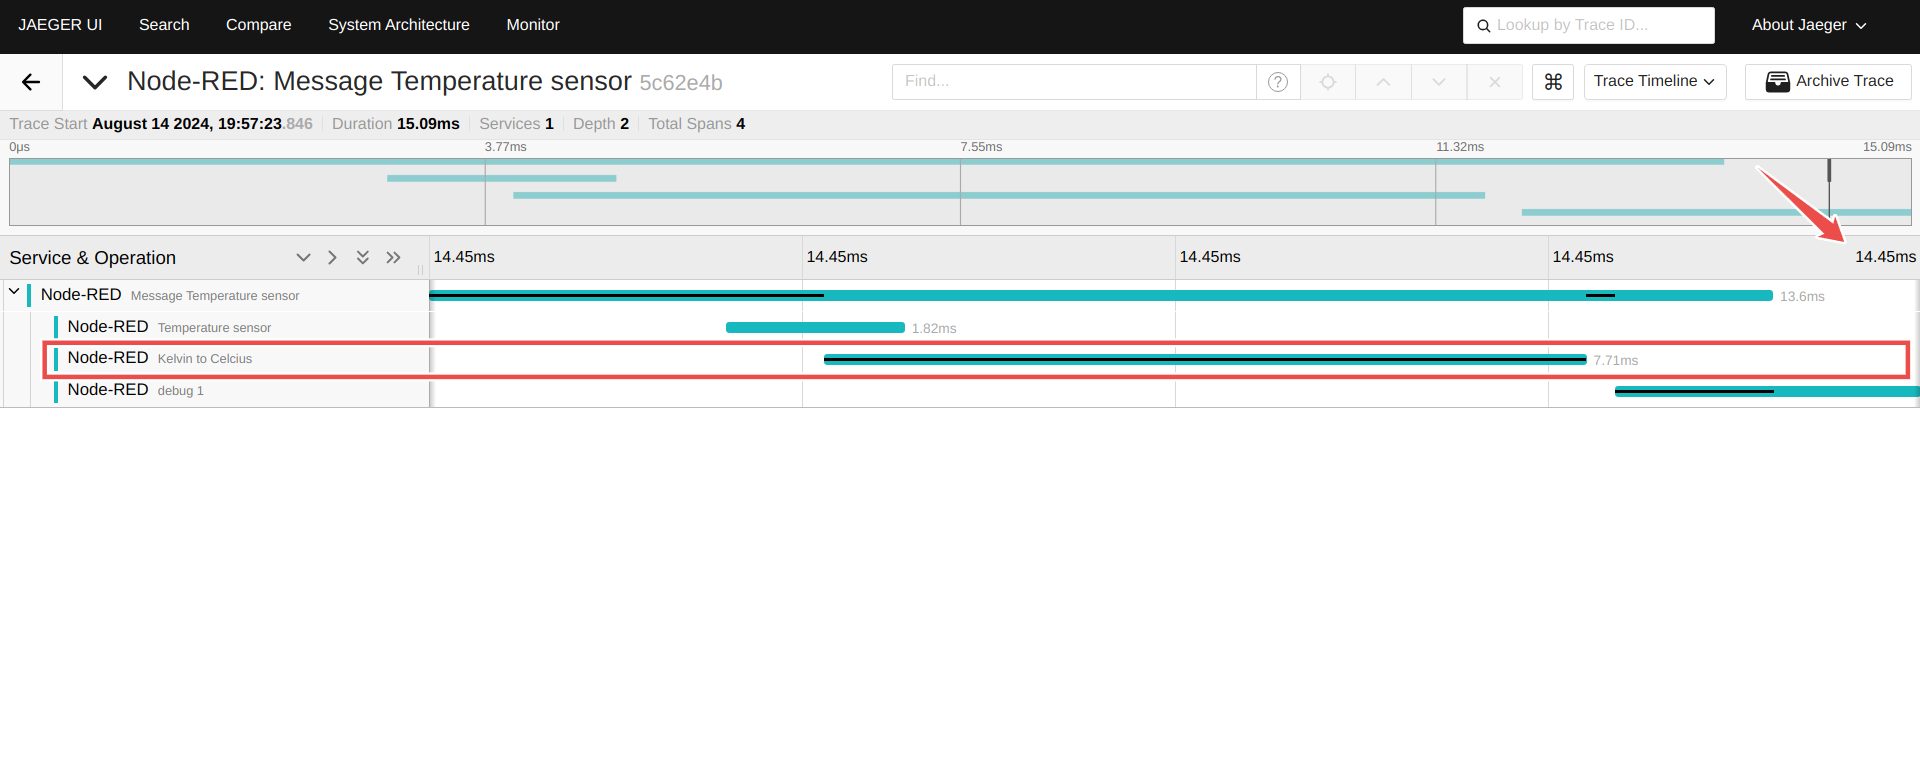
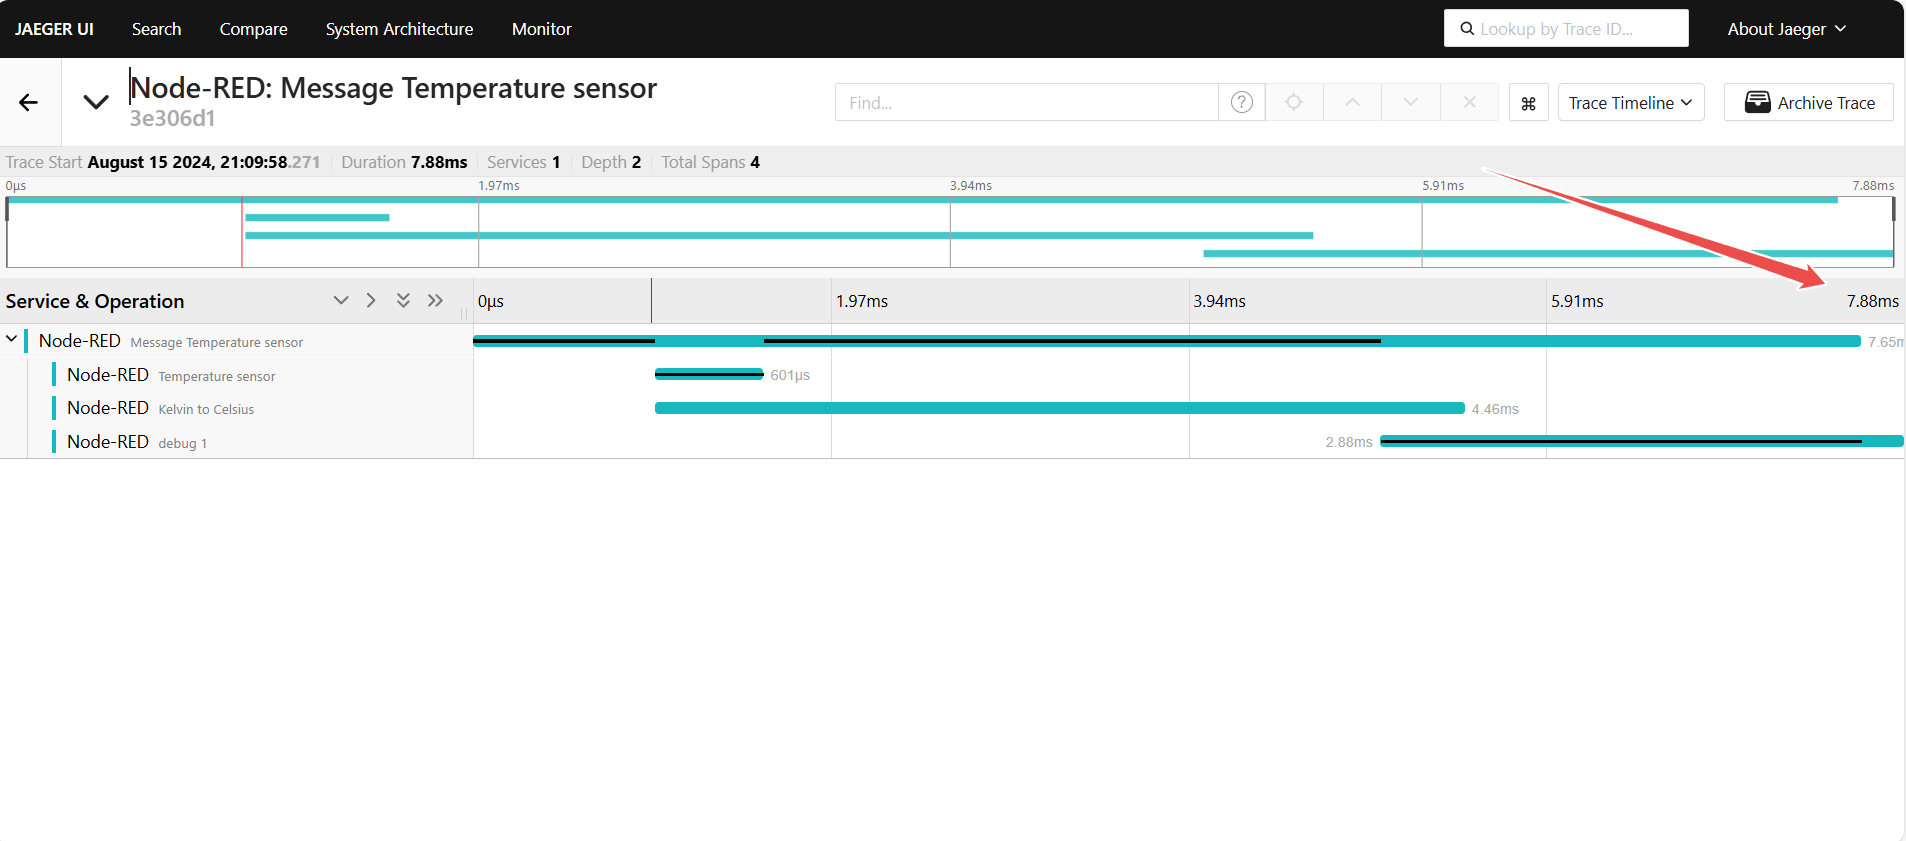
update blog

diff --git a/src/blog/2024/08/opentelemetry-with-node-red.md b/src/blog/2024/08/opentelemetry-with-node-red.md
@@ -33,10 +33,14 @@ In a manufacturing plant, Node-RED manages different machines and sensors. Suppo
 For demonstration purposes, we will use a flow that simulates sensor reading and data processing. We will monitor this flow using OpenTelemetry to track data across the system, identify bottlenecks, and optimize performance.
 
 {% renderFlow %}
-[{"id":"9e778f13beba757e","type":"group","z":"45e56b4089cada94","name":"flow1","style":{"label":true},"nodes":["636ac7b4d798a5c4","ac87db82c2ab66f5","ec0e6f08c443a048"],"x":134,"y":139,"w":692,"h":82},{"id":"636ac7b4d798a5c4","type":"inject","z":"45e56b4089cada94","g":"9e778f13beba757e","name":"Temperature sensor","props":[{"p":"payload"}],"repeat":"","crontab":"","once":true,"onceDelay":0.1,"topic":"","payload":"$random()* 200\t","payloadType":"jsonata","x":280,"y":180,"wires":[["ec0e6f08c443a048"]]},{"id":"ac87db82c2ab66f5","type":"debug","z":"45e56b4089cada94","g":"9e778f13beba757e","name":"debug 1","active":true,"tosidebar":true,"console":false,"tostatus":false,"complete":"payload","targetType":"msg","statusVal":"","statusType":"auto","x":720,"y":180,"wires":[]},{"id":"ec0e6f08c443a048","type":"function","z":"45e56b4089cada94","g":"9e778f13beba757e","name":"Kelvin to Celcius","func":"// Extract the Kelvin value from the incoming message payload\nlet kelvin = msg.payload;\n\n// Function to convert Kelvin to Celsius\nfunction kelvinToCelsius(kelvin) {\n    return kelvin - 273.15;\n}\n\n// Function to add an intentional delay (e.g., 1 second)\nfunction delay(ms) {\n    return new Promise(resolve => setTimeout(resolve, ms));\n}\n\n// Convert Kelvin to Celsius\nlet celsius = kelvinToCelsius(kelvin);\n\n// Add an intentional delay (1 second)\nawait delay(1000);\n\n// Set the result in the message payload\nmsg.payload = celsius;\n\n// Return the modified message object\nreturn msg;","outputs":1,"timeout":0,"noerr":0,"initialize":"","finalize":"","libs":[],"x":520,"y":180,"wires":[["ac87db82c2ab66f5"]]}]
+[{"id":"78e4a1255f9d0ad1","type":"group","z":"45e56b4089cada94","name":"","style":{"label":true},"nodes":["636ac7b4d798a5c4","ac87db82c2ab66f5","c8a1749629359031","c0d30281031f07db"],"x":34,"y":139,"w":852,"h":82},{"id":"636ac7b4d798a5c4","type":"inject","z":"45e56b4089cada94","g":"78e4a1255f9d0ad1","name":"Temperature sensor","props":[{"p":"payload"}],"repeat":"","crontab":"","once":true,"onceDelay":0.1,"topic":"","payload":"300","payloadType":"jsonata","x":180,"y":180,"wires":[["c8a1749629359031"]]},{"id":"ac87db82c2ab66f5","type":"debug","z":"45e56b4089cada94","g":"78e4a1255f9d0ad1","name":"debug 1","active":true,"tosidebar":true,"console":false,"tostatus":false,"complete":"payload","targetType":"msg","statusVal":"","statusType":"auto","x":780,"y":180,"wires":[]},{"id":"c8a1749629359031","type":"change","z":"45e56b4089cada94","g":"78e4a1255f9d0ad1","name":"Kelvin to Celsius","rules":[{"t":"set","p":"payload","pt":"msg","to":"payload - 273.15","tot":"jsonata"}],"action":"","property":"","from":"","to":"","reg":false,"x":400,"y":180,"wires":[["c0d30281031f07db"]]},{"id":"c0d30281031f07db","type":"delay","z":"45e56b4089cada94","g":"78e4a1255f9d0ad1","name":"","pauseType":"delay","timeout":"2","timeoutUnits":"seconds","rate":"1","nbRateUnits":"1","rateUnits":"second","randomFirst":"1","randomLast":"5","randomUnits":"seconds","drop":false,"allowrate":false,"outputs":1,"x":600,"y":180,"wires":[["ac87db82c2ab66f5"]]}]
 {% endrenderFlow %}
 
-Deploy the above flow, and you might notice that the data printed on the debug panel appears with a delay. For example purpose, in the function node that converts temperature data to Kelvin, we have intentionally added a delay. While you might have already spotted this delay quickly, in larger flows with hundreds of nodes, it can be challenging and time-consuming to pinpoint the exact problem. OpenTelemetry simplifies this task by providing detailed traces that help you identify where the delays or issues are occurring.
+"Deploy the flow above, and you might see a delay in the data shown on the debug panel. For this example, we added a Delay node before the Change node that converts temperature data to Kelvin. While this delay is visible here, finding such delays in larger flows with many nodes can be difficult and time-consuming. OpenTelemetry makes this easier by giving you detailed traces that show where delays or issues are happening
+
+## How Open Telemtry works in Node-RED
+
+The Open Telemtry module helps track messages in Node-RED by creating "spans" that record details about each message's journey. Every time a message moves from one node to another, a span is created to capture where it came from, where it’s going, and how long it took. These spans are linked together, showing the entire path of the message through the system. This makes it easier to spot slowdowns, fix problems, and improve how data moves through Node-RED. The module also makes sure this tracking information follows the message as it moves across different nodes and external services.
 
 ### Prequsite
 
@@ -53,13 +57,13 @@ _Screenshot showing the configuration of opentelmetry node_
 1. Drag an `OTEL` node onto the canvas.
 2. Double-click on the node and set the URL to your exporter endpoint (e.g., `http://localhost:4318/v1/traces` for a locally running Jaeger exporter). Provide a name for the service according to your preference, and set the Prefix, which will be added to the root Node-RED span name before the initial node name (you can keep it as "Message" if preferred).
 3. In the Ignore field, add the names of nodes you want to exclude from OpenTelemetry tracing.
-4. In the Propagate field, add the names of nodes to which you want OpenTelemetry to forward trace headers for tracking.
+4. In the Propagate field, add the names of nodes if you want them to forward trace headers to external systems or other nodes in the flow. This ensures that these nodes participate in the distributed trace, allowing the trace context to be maintained across different components.
 5. Set the Timeout to define how long (in seconds) the OTEL node should wait before ending and discarding a message that has not been modified.
 6. Now deploy the flow by clicking onto the top-right deploy button.
 
 Once the flow is deployed, OpenTelemetry will start collecting and sending trace data to your specified exporter.
 
-## Monitoring Performance Using the Exporter Web UI
+### Monitoring Performance Using the Exporter Web UI
 
 Now, let's monitor the performance and latency between each node to identify delays. For this section, I am assuming you have Jaeger running as your exporter.
 
@@ -68,33 +72,18 @@ Now, let's monitor the performance and latency between each node to identify del
 3. Select the service name that you configured in the OTEL node from the service field. Once selected, you will see all the traces for each interaction in the flow. You can filter the traces by specific nodes using the operation field.
 4. To monitor and find issues, select the desired trace and click on the "Find Trace" button. Click on the first trace to examine it.
 
-Once the trace opens, you will see the duration taken by each node to process and pass data. Notice the delay in the Kelvin to Celsius function, which is taking 2 seconds. By clicking on the green line corresponding to this function, you can view more detailed information about the trace.
+Once the trace opens, you will see the duration taken by each node to process and pass data. Notice the time taken by the delay node, which is taking 2 seconds so the problem found. By clicking on the green line corresponding to this delay node, you can view more detailed information about the trace.
 
 !["Image showing the total dueration taken by the flow"](./images/before.png "Image showing the tototal dueration taken by the flow")
 _Image showing the tototal dueration taken by the flow_
 
-Since the issue was identified in the function node, you can update the function to remove the delay which we have intentionally added. Replace the current function node with the following JavaScript code:
+Since the issue was identified in the with the delay node, let's remove that delay node.
 
-```js
-// Extract the Kelvin value from the incoming message payload
-let kelvin = msg.payload;
+{% renderFlow %}
+[{"id":"78e4a1255f9d0ad1","type":"group","z":"45e56b4089cada94","style":{"stroke":"#999999","stroke-opacity":"1","fill":"none","fill-opacity":"1","label":true,"label-position":"nw","color":"#a4a4a4"},"nodes":["636ac7b4d798a5c4","ac87db82c2ab66f5","c8a1749629359031","c0d30281031f07db"],"x":34,"y":139,"w":692,"h":82},{"id":"636ac7b4d798a5c4","type":"inject","z":"45e56b4089cada94","g":"78e4a1255f9d0ad1","name":"Temperature sensor","props":[{"p":"payload"}],"repeat":"","crontab":"","once":true,"onceDelay":0.1,"topic":"","payload":"300","payloadType":"jsonata","x":180,"y":180,"wires":[["c8a1749629359031"]]},{"id":"ac87db82c2ab66f5","type":"debug","z":"45e56b4089cada94","g":"78e4a1255f9d0ad1","name":"debug 1","active":true,"tosidebar":true,"console":false,"tostatus":false,"complete":"payload","targetType":"msg","statusVal":"","statusType":"auto","x":620,"y":180,"wires":[]},{"id":"c8a1749629359031","type":"change","z":"45e56b4089cada94","g":"78e4a1255f9d0ad1","name":"Kelvin to Celsius","rules":[{"t":"set","p":"payload","pt":"msg","to":"payload - 273.15","tot":"jsonata"}],"action":"","property":"","from":"","to":"","reg":false,"x":400,"y":180,"wires":[["ac87db82c2ab66f5"]]},{"id":"c0d30281031f07db","type":"delay","z":"45e56b4089cada94","g":"78e4a1255f9d0ad1","name":"","pauseType":"delay","timeout":"2","timeoutUnits":"seconds","rate":"1","nbRateUnits":"1","rateUnits":"second","randomFirst":"1","randomLast":"5","randomUnits":"seconds","drop":false,"allowrate":false,"outputs":1,"x":600,"y":180,"wires":[[]]}]
+{% endrenderFlow %}
 
-// Function to convert Kelvin to Celsius
-function kelvinToCelsius(kelvin) {
-    return kelvin - 273.15;
-}
-
-// Convert Kelvin to Celsius
-let celsius = kelvinToCelsius(kelvin);
-
-// Set the result in the message payload
-msg.payload = celsius;
-
-// Return the modified message object
-return msg;
-```
-
-After updating the function node, redeploy the flow and check the traces again. You should see that the delay has been reduced significantly, with the overall flow now taking around 15 milliseconds instead of the previous 2 seconds. This demonstrates how OpenTelemetry helps in identifying and resolving performance issues in your Node-RED flows.
+After updating the flow, redeploy the flow and check the traces again. You should see that the total time has been reduced significantly, with the overall flow now taking around 8 milliseconds instead of the previous 2 seconds. This demonstrates how OpenTelemetry helps in identifying and resolving performance issues in your Node-RED flows.
 
 !["Image showing the total dueration taken by the flow after fixing the issue"](./images/after.png "Image showing the total dueration taken by the flow after fixing the issue")
 _Image showing the total dueration taken by the flow after fixing the issue_
